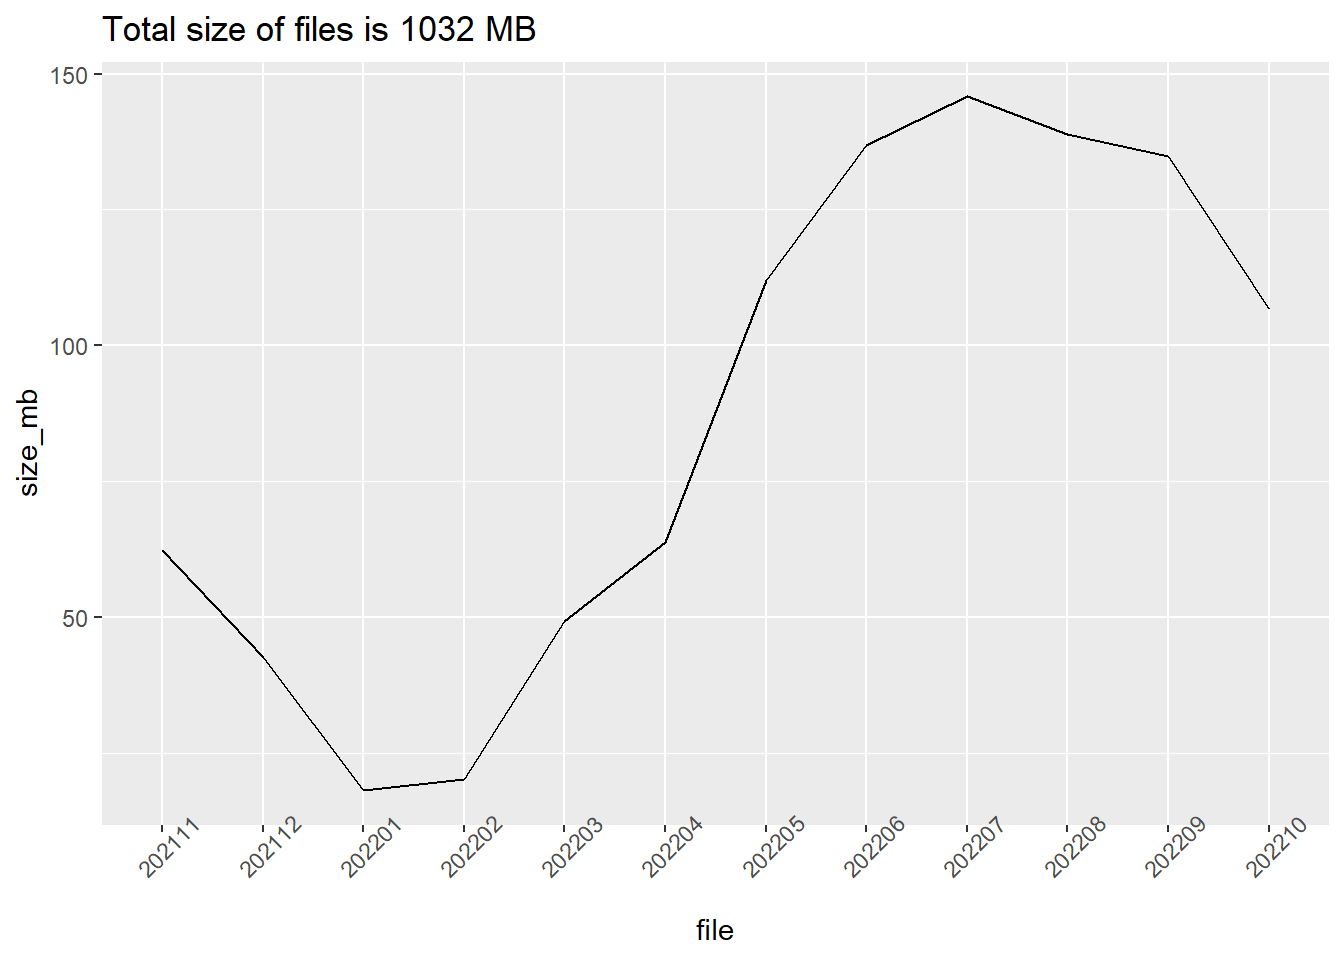
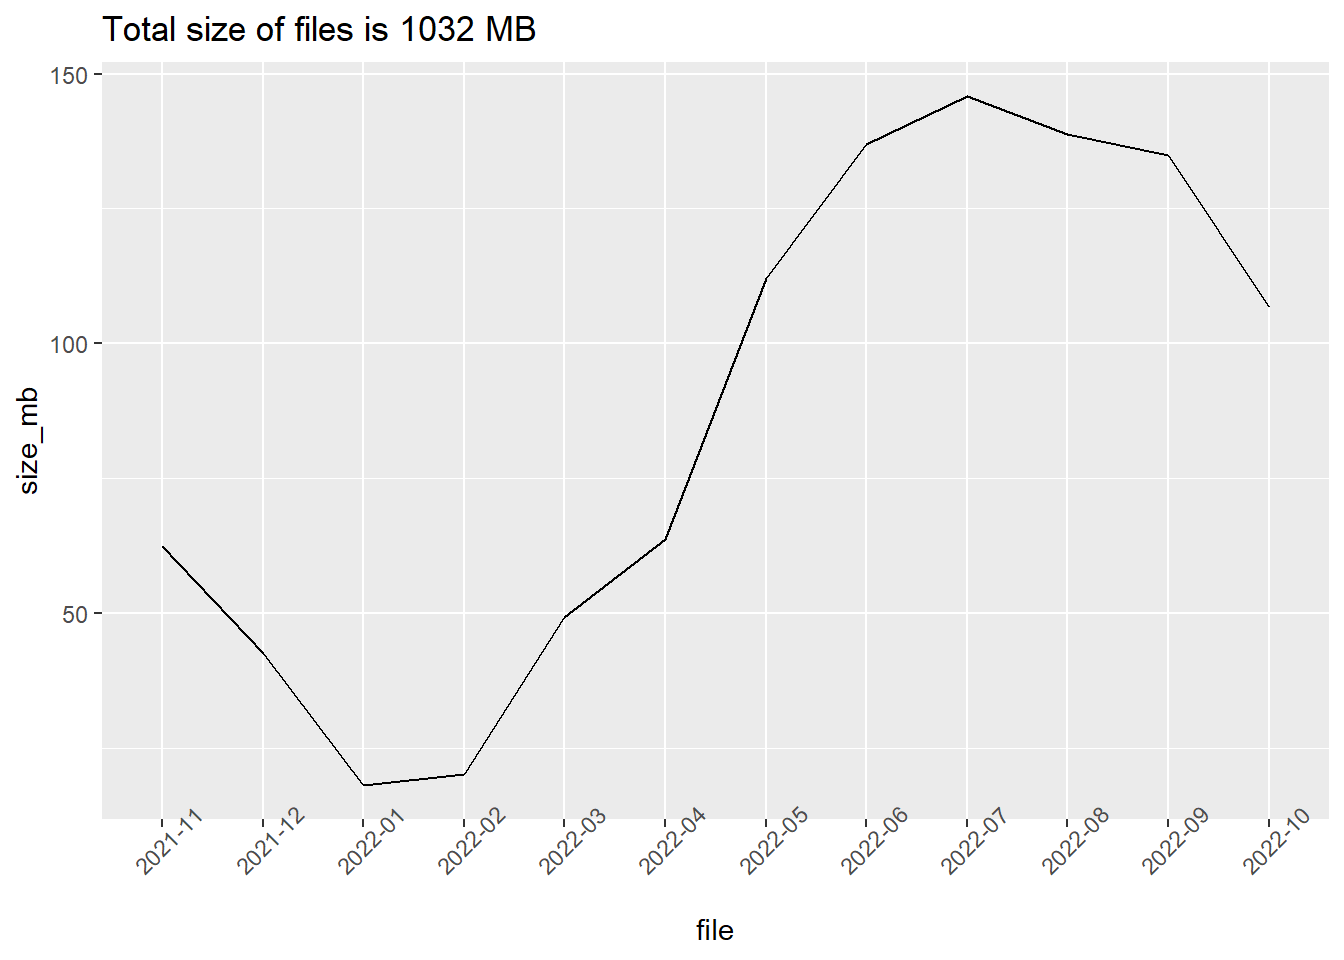
update by removing scenario description

diff --git a/report.html b/report.html
@@ -170,6 +170,7 @@ code span.wa { color: #60a0b0; font-weight: bold; font-style: italic; } /* Warni
 <li>How does it help you answer your question?</li>
 <li>Are there any problems with the data?</li>
 </ul>
+<p>Load required packages</p>
 <div class="cell">
 <div class="sourceCode cell-code" id="cb1"><pre class="sourceCode r code-with-copy"><code class="sourceCode r"><span id="cb1-1"><a href="#cb1-1" aria-hidden="true" tabindex="-1"></a><span class="fu">library</span>(dplyr)</span></code><button title="Copy to Clipboard" class="code-copy-button"><i class="bi"></i></button></pre></div>
 <div class="cell-output cell-output-stderr">
@@ -191,7 +192,8 @@ Attaching package: 'dplyr'</code></pre>
 <pre><code>here() starts at C:/Users/marko/OneDrive/Documents/Coursera/Google Data Analytics Professional Certificate/Capstone Project/google_DA_cert_capstone</code></pre>
 </div>
 <div class="sourceCode cell-code" id="cb7"><pre class="sourceCode r code-with-copy"><code class="sourceCode r"><span id="cb7-1"><a href="#cb7-1" aria-hidden="true" tabindex="-1"></a><span class="fu">library</span>(stringr)</span>
-<span id="cb7-2"><a href="#cb7-2" aria-hidden="true" tabindex="-1"></a><span class="fu">library</span>(tidyr)</span></code><button title="Copy to Clipboard" class="code-copy-button"><i class="bi"></i></button></pre></div>
+<span id="cb7-2"><a href="#cb7-2" aria-hidden="true" tabindex="-1"></a><span class="fu">library</span>(tidyr)</span>
+<span id="cb7-3"><a href="#cb7-3" aria-hidden="true" tabindex="-1"></a><span class="fu">library</span>(readr)</span></code><button title="Copy to Clipboard" class="code-copy-button"><i class="bi"></i></button></pre></div>
 </div>
 <div class="cell">
 <div class="sourceCode cell-code" id="cb8"><pre class="sourceCode r code-with-copy"><code class="sourceCode r"><span id="cb8-1"><a href="#cb8-1" aria-hidden="true" tabindex="-1"></a>csv_sizes <span class="ot">&lt;-</span> <span class="fu">tibble</span>(<span class="at">file =</span> <span class="fu">list.files</span>(<span class="fu">here</span>(<span class="st">"raw_data"</span>)),</span>
@@ -201,13 +203,18 @@ Attaching package: 'dplyr'</code></pre>
 <span id="cb8-5"><a href="#cb8-5" aria-hidden="true" tabindex="-1"></a></span>
 <span id="cb8-6"><a href="#cb8-6" aria-hidden="true" tabindex="-1"></a><span class="fu">library</span>(ggplot2)</span>
 <span id="cb8-7"><a href="#cb8-7" aria-hidden="true" tabindex="-1"></a><span class="fu">library</span>(stringr)</span>
-<span id="cb8-8"><a href="#cb8-8" aria-hidden="true" tabindex="-1"></a>csv_sizes <span class="sc">%&gt;%</span> </span>
-<span id="cb8-9"><a href="#cb8-9" aria-hidden="true" tabindex="-1"></a>    <span class="fu">ggplot</span>(<span class="fu">aes</span>(<span class="at">x =</span> file, <span class="at">y =</span> size_mb, <span class="at">group =</span> <span class="dv">1</span>)) <span class="sc">+</span> <span class="fu">geom_line</span>() <span class="sc">+</span></span>
-<span id="cb8-10"><a href="#cb8-10" aria-hidden="true" tabindex="-1"></a>    <span class="fu">labs</span>(<span class="at">title =</span> <span class="fu">paste0</span>(<span class="st">"Total size of files is "</span>,</span>
-<span id="cb8-11"><a href="#cb8-11" aria-hidden="true" tabindex="-1"></a>                        csv_sizes <span class="sc">%&gt;%</span> <span class="fu">summarize</span>(<span class="fu">round</span>(<span class="fu">sum</span>(size_mb), <span class="dv">0</span>)) <span class="sc">%&gt;%</span> </span>
-<span id="cb8-12"><a href="#cb8-12" aria-hidden="true" tabindex="-1"></a>                            <span class="fu">pull</span>(), <span class="st">" MB"</span>)) <span class="sc">+</span></span>
-<span id="cb8-13"><a href="#cb8-13" aria-hidden="true" tabindex="-1"></a>    <span class="fu">theme</span>(<span class="at">axis.text.x =</span> <span class="fu">element_text</span>(<span class="at">angle =</span> <span class="dv">45</span>)) <span class="sc">+</span></span>
-<span id="cb8-14"><a href="#cb8-14" aria-hidden="true" tabindex="-1"></a>    <span class="fu">scale_x_discrete</span>(<span class="at">labels =</span> <span class="fu">str_sub</span>(csv_sizes<span class="sc">$</span>file, <span class="dv">1</span>, <span class="dv">6</span>))</span></code><button title="Copy to Clipboard" class="code-copy-button"><i class="bi"></i></button></pre></div>
+<span id="cb8-8"><a href="#cb8-8" aria-hidden="true" tabindex="-1"></a></span>
+<span id="cb8-9"><a href="#cb8-9" aria-hidden="true" tabindex="-1"></a>my_labels <span class="ot">&lt;-</span> <span class="fu">sapply</span>(csv_sizes<span class="sc">$</span>file, <span class="cf">function</span>(m) <span class="fu">str_replace</span>(m,</span>
+<span id="cb8-10"><a href="#cb8-10" aria-hidden="true" tabindex="-1"></a>                                                <span class="at">pattern =</span> <span class="st">"(.{4})(.{2})(.*)"</span>,</span>
+<span id="cb8-11"><a href="#cb8-11" aria-hidden="true" tabindex="-1"></a>                                                <span class="at">replacement =</span> <span class="fu">paste</span>(<span class="st">"</span><span class="sc">\\</span><span class="st">1-</span><span class="sc">\\</span><span class="st">2"</span>)))</span>
+<span id="cb8-12"><a href="#cb8-12" aria-hidden="true" tabindex="-1"></a></span>
+<span id="cb8-13"><a href="#cb8-13" aria-hidden="true" tabindex="-1"></a>csv_sizes <span class="sc">%&gt;%</span> </span>
+<span id="cb8-14"><a href="#cb8-14" aria-hidden="true" tabindex="-1"></a>    <span class="fu">ggplot</span>(<span class="fu">aes</span>(<span class="at">x =</span> file, <span class="at">y =</span> size_mb, <span class="at">group =</span> <span class="dv">1</span>)) <span class="sc">+</span> <span class="fu">geom_line</span>() <span class="sc">+</span></span>
+<span id="cb8-15"><a href="#cb8-15" aria-hidden="true" tabindex="-1"></a>    <span class="fu">labs</span>(<span class="at">title =</span> <span class="fu">paste0</span>(<span class="st">"Total size of files is "</span>,</span>
+<span id="cb8-16"><a href="#cb8-16" aria-hidden="true" tabindex="-1"></a>                        csv_sizes <span class="sc">%&gt;%</span> <span class="fu">summarize</span>(<span class="fu">round</span>(<span class="fu">sum</span>(size_mb), <span class="dv">0</span>)) <span class="sc">%&gt;%</span> </span>
+<span id="cb8-17"><a href="#cb8-17" aria-hidden="true" tabindex="-1"></a>                            <span class="fu">pull</span>(), <span class="st">" MB"</span>)) <span class="sc">+</span></span>
+<span id="cb8-18"><a href="#cb8-18" aria-hidden="true" tabindex="-1"></a>    <span class="fu">theme</span>(<span class="at">axis.text.x =</span> <span class="fu">element_text</span>(<span class="at">angle =</span> <span class="dv">45</span>)) <span class="sc">+</span></span>
+<span id="cb8-19"><a href="#cb8-19" aria-hidden="true" tabindex="-1"></a>    <span class="fu">scale_x_discrete</span>(<span class="at">labels =</span> my_labels)</span></code><button title="Copy to Clipboard" class="code-copy-button"><i class="bi"></i></button></pre></div>
 <div class="cell-output-display">
 <p><img src="report_files/figure-html/unnamed-chunk-1-1.png" class="img-fluid" width="672"></p>
 </div>
